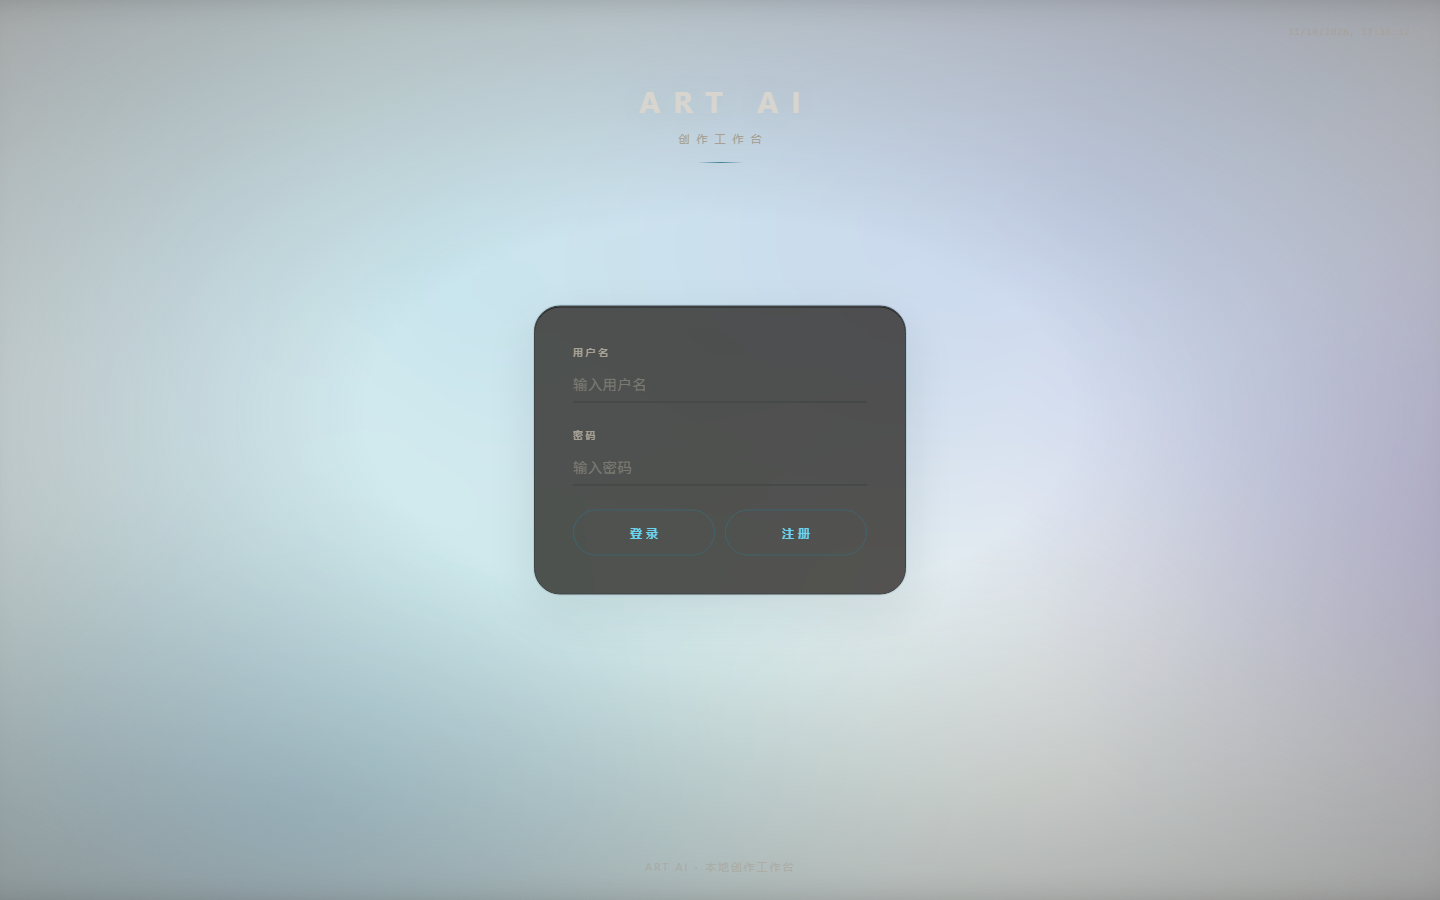
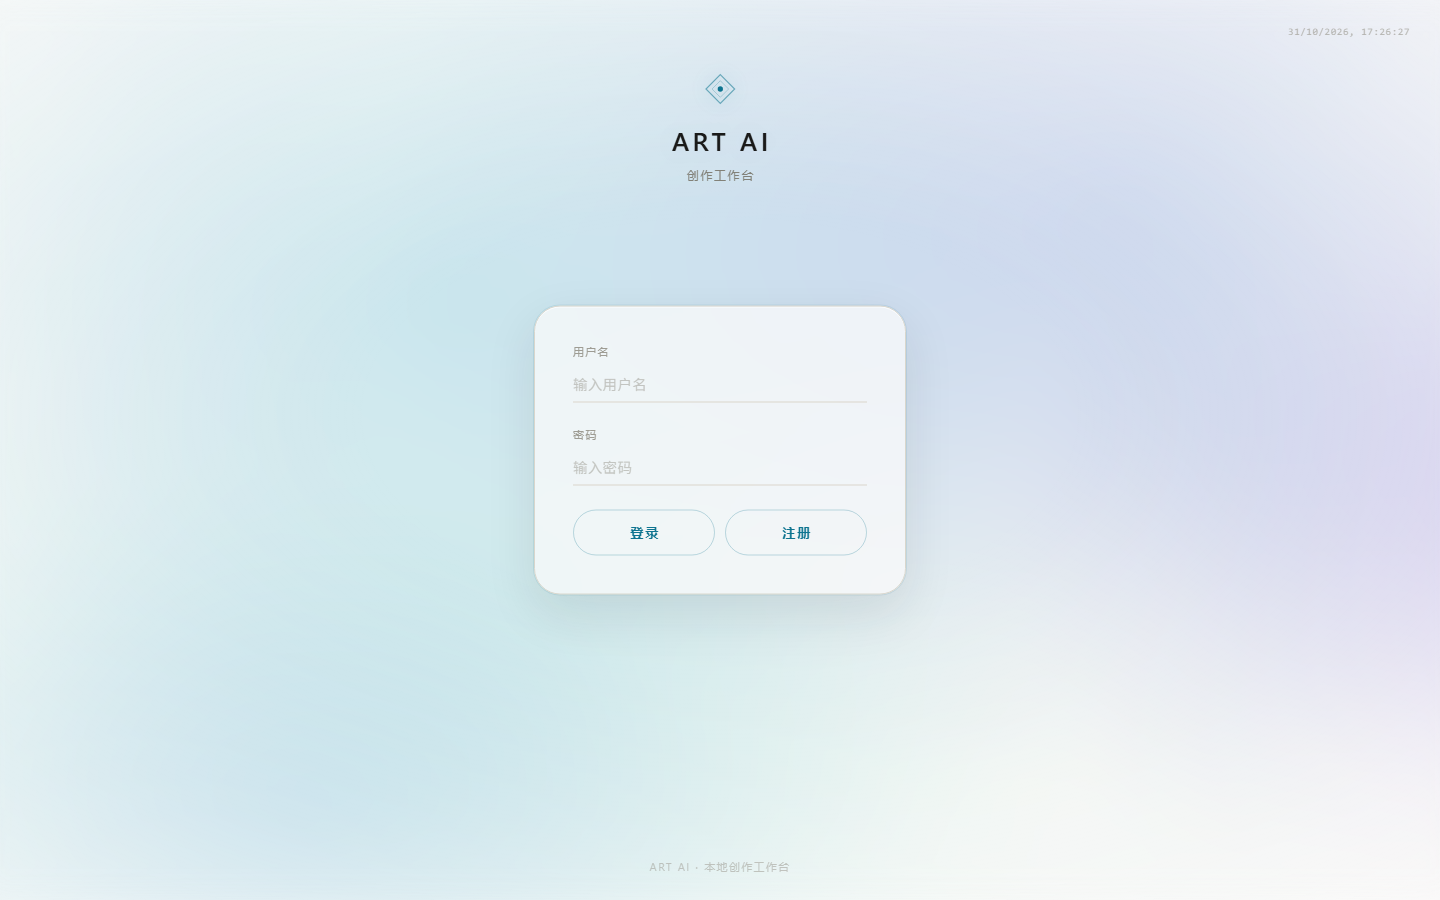
style(login): 重做品牌区，去掉字距撑开的模板感
原排版问题：主标题 30px 配 13px 字距（≈字号的 43%），副标题同样全大写大间距，
字母被拆成孤立个体、大小标题都在"用力"，加上纯文字无品牌符号 + 一条孤零零的
渐变短横线，整体像占位模板。

改动：
- 新增几何品牌标记（双层菱形 + 光核 SVG），呼应背景极光的中心光源，作为记忆点
- 主标题字距 13px → 3.4px（约字号 13%），字号收到 26px，靠字重和明度做层次
- 副标题去掉大写拉伸，12px / 正常字距 / --ui-muted，在深色底上可读性明显提升
- 删除渐变短横线，改由标志本身承担视觉锚点
- 字重改用项目变量 --ui-fw-semibold/--ui-fw-regular，深色主题自动降 40 不发糊
- 标题加品牌色辉光 text-shadow，与背景极光同源
- 顺带收紧表单 label（2.6px→1.8px）和按钮（4px→2.4px）字距，统一排印密度
- 字体栈补 'Microsoft YaHei UI'，Windows 下字形比 YaHei 更紧致

diff --git a/static/login.html b/static/login.html
@@ -17,7 +17,7 @@
             min-height: 100vh;
             background: var(--ui-bg, #14161c);
             color: var(--ui-text, #e6e5e0);
-            font-family: 'Inter', -apple-system, 'Segoe UI', 'Microsoft YaHei', sans-serif;
+            font-family: 'Inter', -apple-system, 'Segoe UI', 'Microsoft YaHei UI', 'Microsoft YaHei', sans-serif;
             -webkit-font-smoothing: antialiased;
             animation: pageIn .7s var(--ui-ease, cubic-bezier(.4,0,.2,1)) both;
         }
@@ -61,7 +61,7 @@
         /* ---------- 品牌区 ---------- */
         .brand {
             position: fixed;
-            top: clamp(34px, 9vh, 84px);
+            top: clamp(30px, 8vh, 74px);
             left: 50%;
             transform: translateX(-50%);
             z-index: 10;
@@ -69,31 +69,34 @@
             pointer-events: none;
             animation: brandIn 1.9s var(--ui-ease, cubic-bezier(.4,0,.2,1)) both;
         }
+        /* 几何标记：双层菱形 + 光核，呼应背景极光的中心光源 */
+        .brand .mark {
+            display: block;
+            width: clamp(28px, 3.2vw, 34px);
+            height: clamp(28px, 3.2vw, 34px);
+            margin: 0 auto 17px;
+            color: var(--ui-accent, #0e7490);
+            filter: drop-shadow(0 0 10px color-mix(in srgb, var(--ui-accent, #0e7490) 40%, transparent));
+        }
         .brand h1 {
             margin: 0;
-            font-size: clamp(22px, 3.2vw, 30px);
-            font-weight: 700;
-            letter-spacing: clamp(6px, 1.2vw, 13px);
-            text-indent: clamp(6px, 1.2vw, 13px);
+            font-size: clamp(20px, 2.6vw, 26px);
+            /* 跟随项目字重体系：暗色主题自动降 40，避免暗底上发糊 */
+            font-weight: var(--ui-fw-semibold, 600);
+            /* 字距约为字号的 13%，之前 13px ≈ 字号的 43%，字母被拆散才显廉价 */
+            letter-spacing: 3.4px;
+            text-indent: 3.4px;
             color: var(--ui-text, #e6e5e0);
-            text-shadow: 0 0 32px var(--ui-accent-soft, rgba(14, 116, 144, .18));
+            /* 品牌色辉光，与背景极光同源 */
+            text-shadow: 0 0 28px var(--ui-accent-soft, rgba(14, 116, 144, .12));
         }
         .brand p {
-            margin: 10px 0 0;
-            font-size: 11px;
-            font-weight: 500;
-            letter-spacing: clamp(3px, .8vw, 7px);
-            text-indent: clamp(3px, .8vw, 7px);
-            color: var(--ui-faint, #9e9c93);
-            text-transform: uppercase;
-        }
-        .brand .rule {
-            display: block;
-            width: 46px;
-            height: 1px;
-            margin: 16px auto 0;
-            background: linear-gradient(90deg, transparent, var(--ui-accent, #0e7490), transparent);
-            opacity: .7;
+            margin: 9px 0 0;
+            font-size: 12px;
+            font-weight: var(--ui-fw-regular, 400);
+            letter-spacing: 1.6px;
+            text-indent: 1.6px;
+            color: var(--ui-muted, #828178);
         }
         @keyframes brandIn {
             0%   { opacity: 0; filter: blur(6px); transform: translateX(-50%) translateY(-8px); }
@@ -140,11 +143,10 @@
         .form-group label {
             display: block;
             color: var(--ui-faint, #9e9c93);
-            font-size: 10px;
-            font-weight: 600;
-            letter-spacing: 2.6px;
+            font-size: 10.5px;
+            font-weight: var(--ui-fw-medium, 500);
+            letter-spacing: 1.8px;
             margin-bottom: 9px;
-            text-transform: uppercase;
         }
         .form-group input {
             width: 100%;
@@ -189,10 +191,10 @@
             background: transparent;
             color: var(--ui-accent, #0e7490);
             font-family: inherit;
-            font-size: 12px;
-            font-weight: 700;
-            letter-spacing: 4px;
-            text-indent: 4px;
+            font-size: 12.5px;
+            font-weight: var(--ui-fw-semibold, 600);
+            letter-spacing: 2.4px;
+            text-indent: 2.4px;
             cursor: pointer;
             transition: background .26s, color .26s, border-color .26s, box-shadow .26s, transform .12s;
         }
@@ -226,7 +228,7 @@
             transform: translateX(-50%);
             z-index: 10;
             font-size: 10.5px;
-            letter-spacing: 2.4px;
+            letter-spacing: 1.8px;
             color: var(--ui-faint, #9e9c93);
             opacity: .55;
             pointer-events: none;
@@ -251,9 +253,13 @@
 <div class="grain" aria-hidden="true"></div>
 
 <header class="brand">
+    <svg class="mark" viewBox="0 0 32 32" aria-hidden="true">
+        <path d="M16 2.5 L29.5 16 L16 29.5 L2.5 16 Z" fill="none" stroke="currentColor" stroke-width="1.1" opacity=".55"/>
+        <path d="M16 8.2 L23.8 16 L16 23.8 L8.2 16 Z" fill="none" stroke="currentColor" stroke-width=".75" opacity=".3"/>
+        <circle cx="16" cy="16" r="2.5" fill="currentColor"/>
+    </svg>
     <h1>ART AI</h1>
     <p>创作工作台</p>
-    <span class="rule"></span>
 </header>
 
 <form id="loginForm" autocomplete="off" novalidate>
